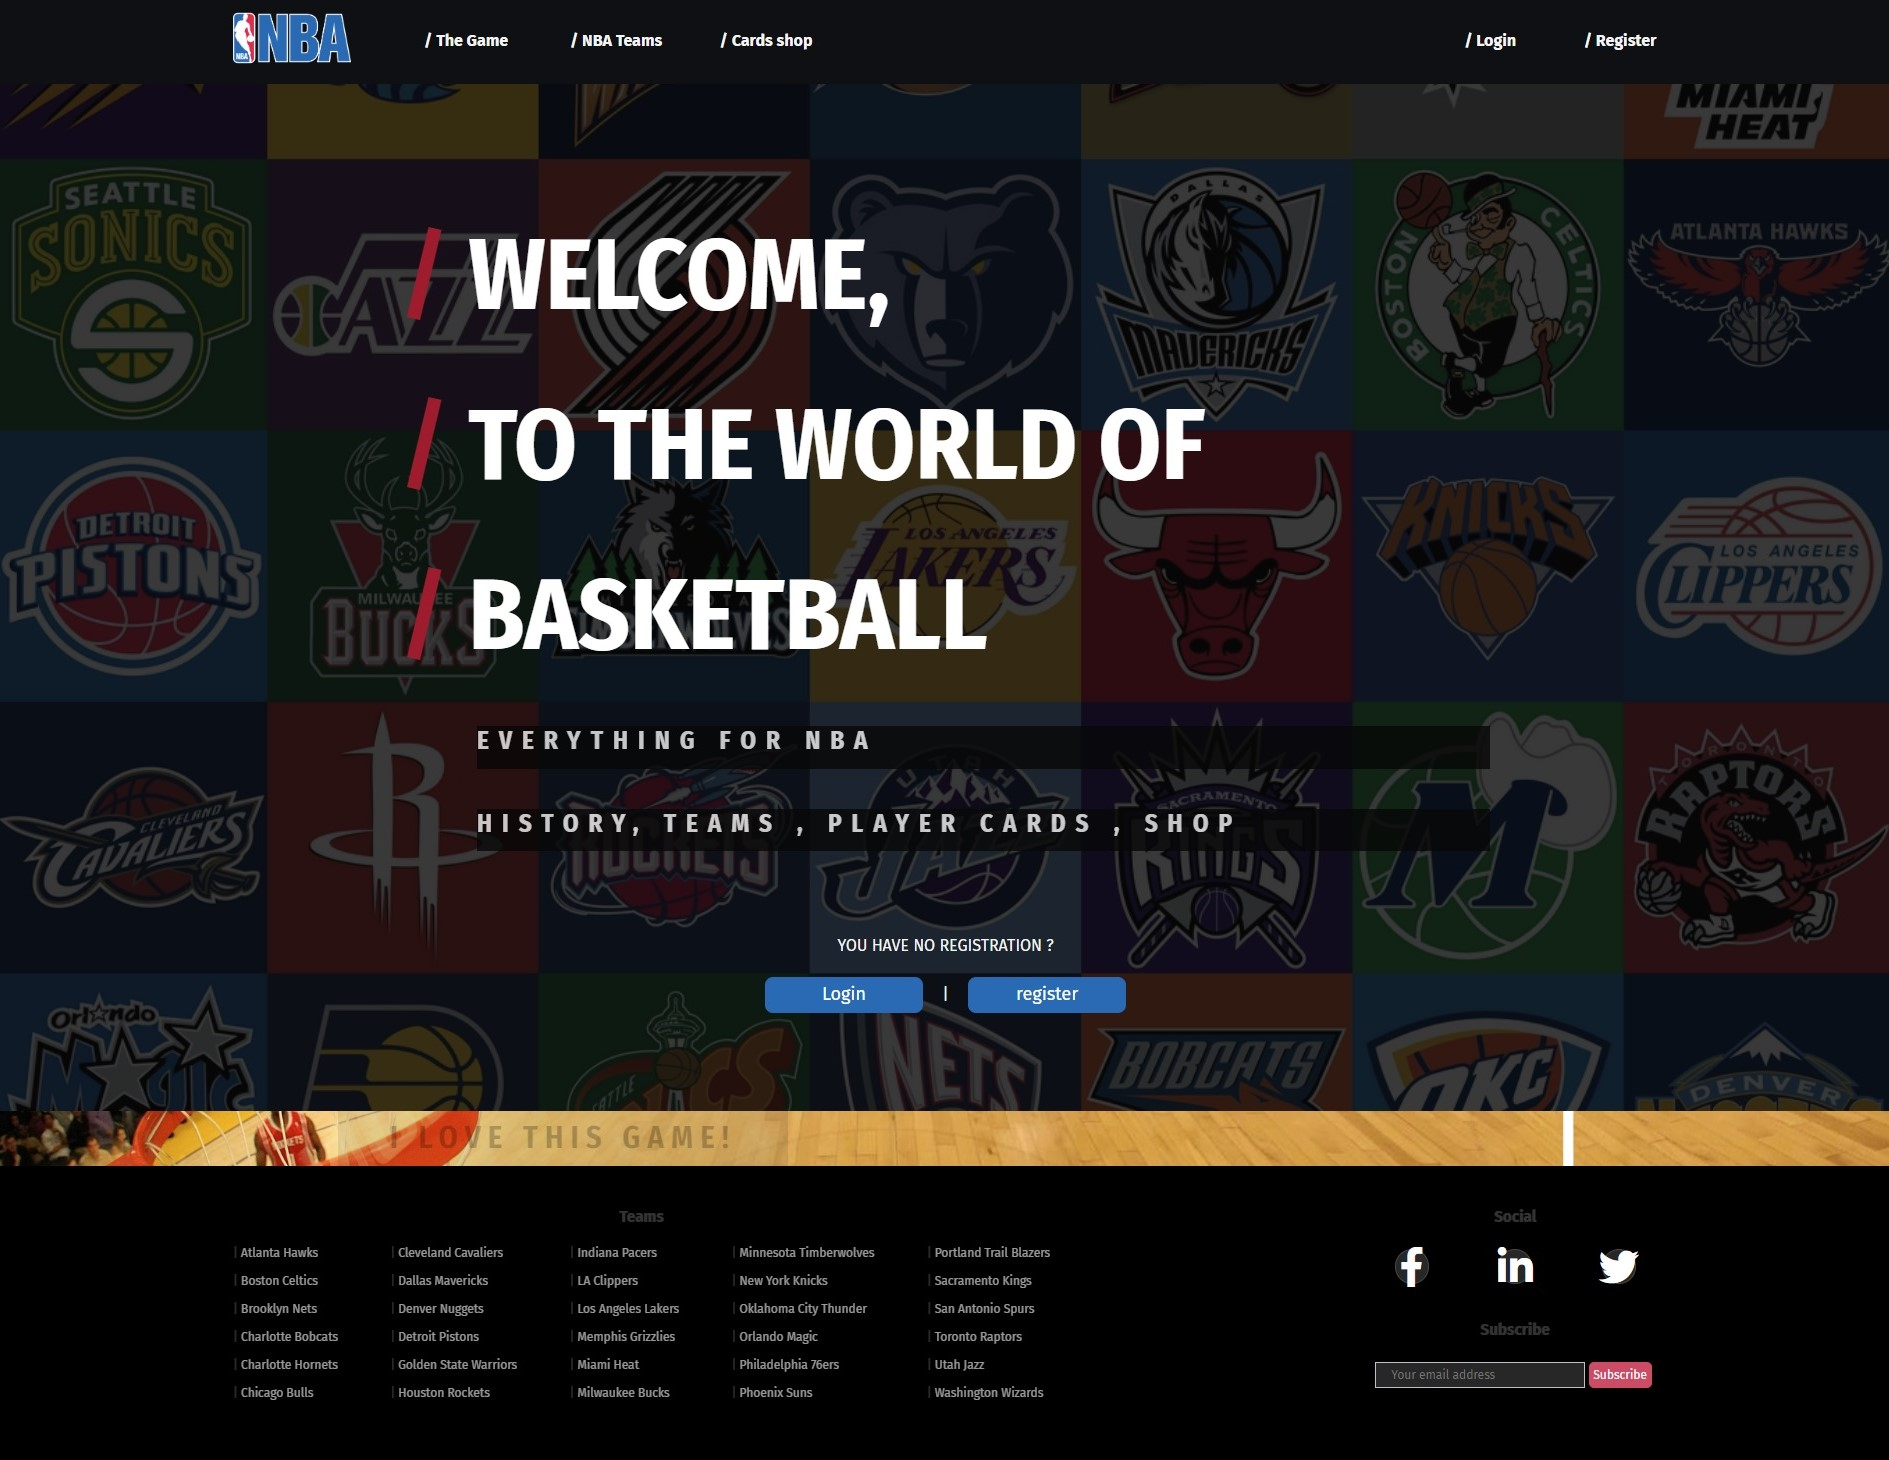
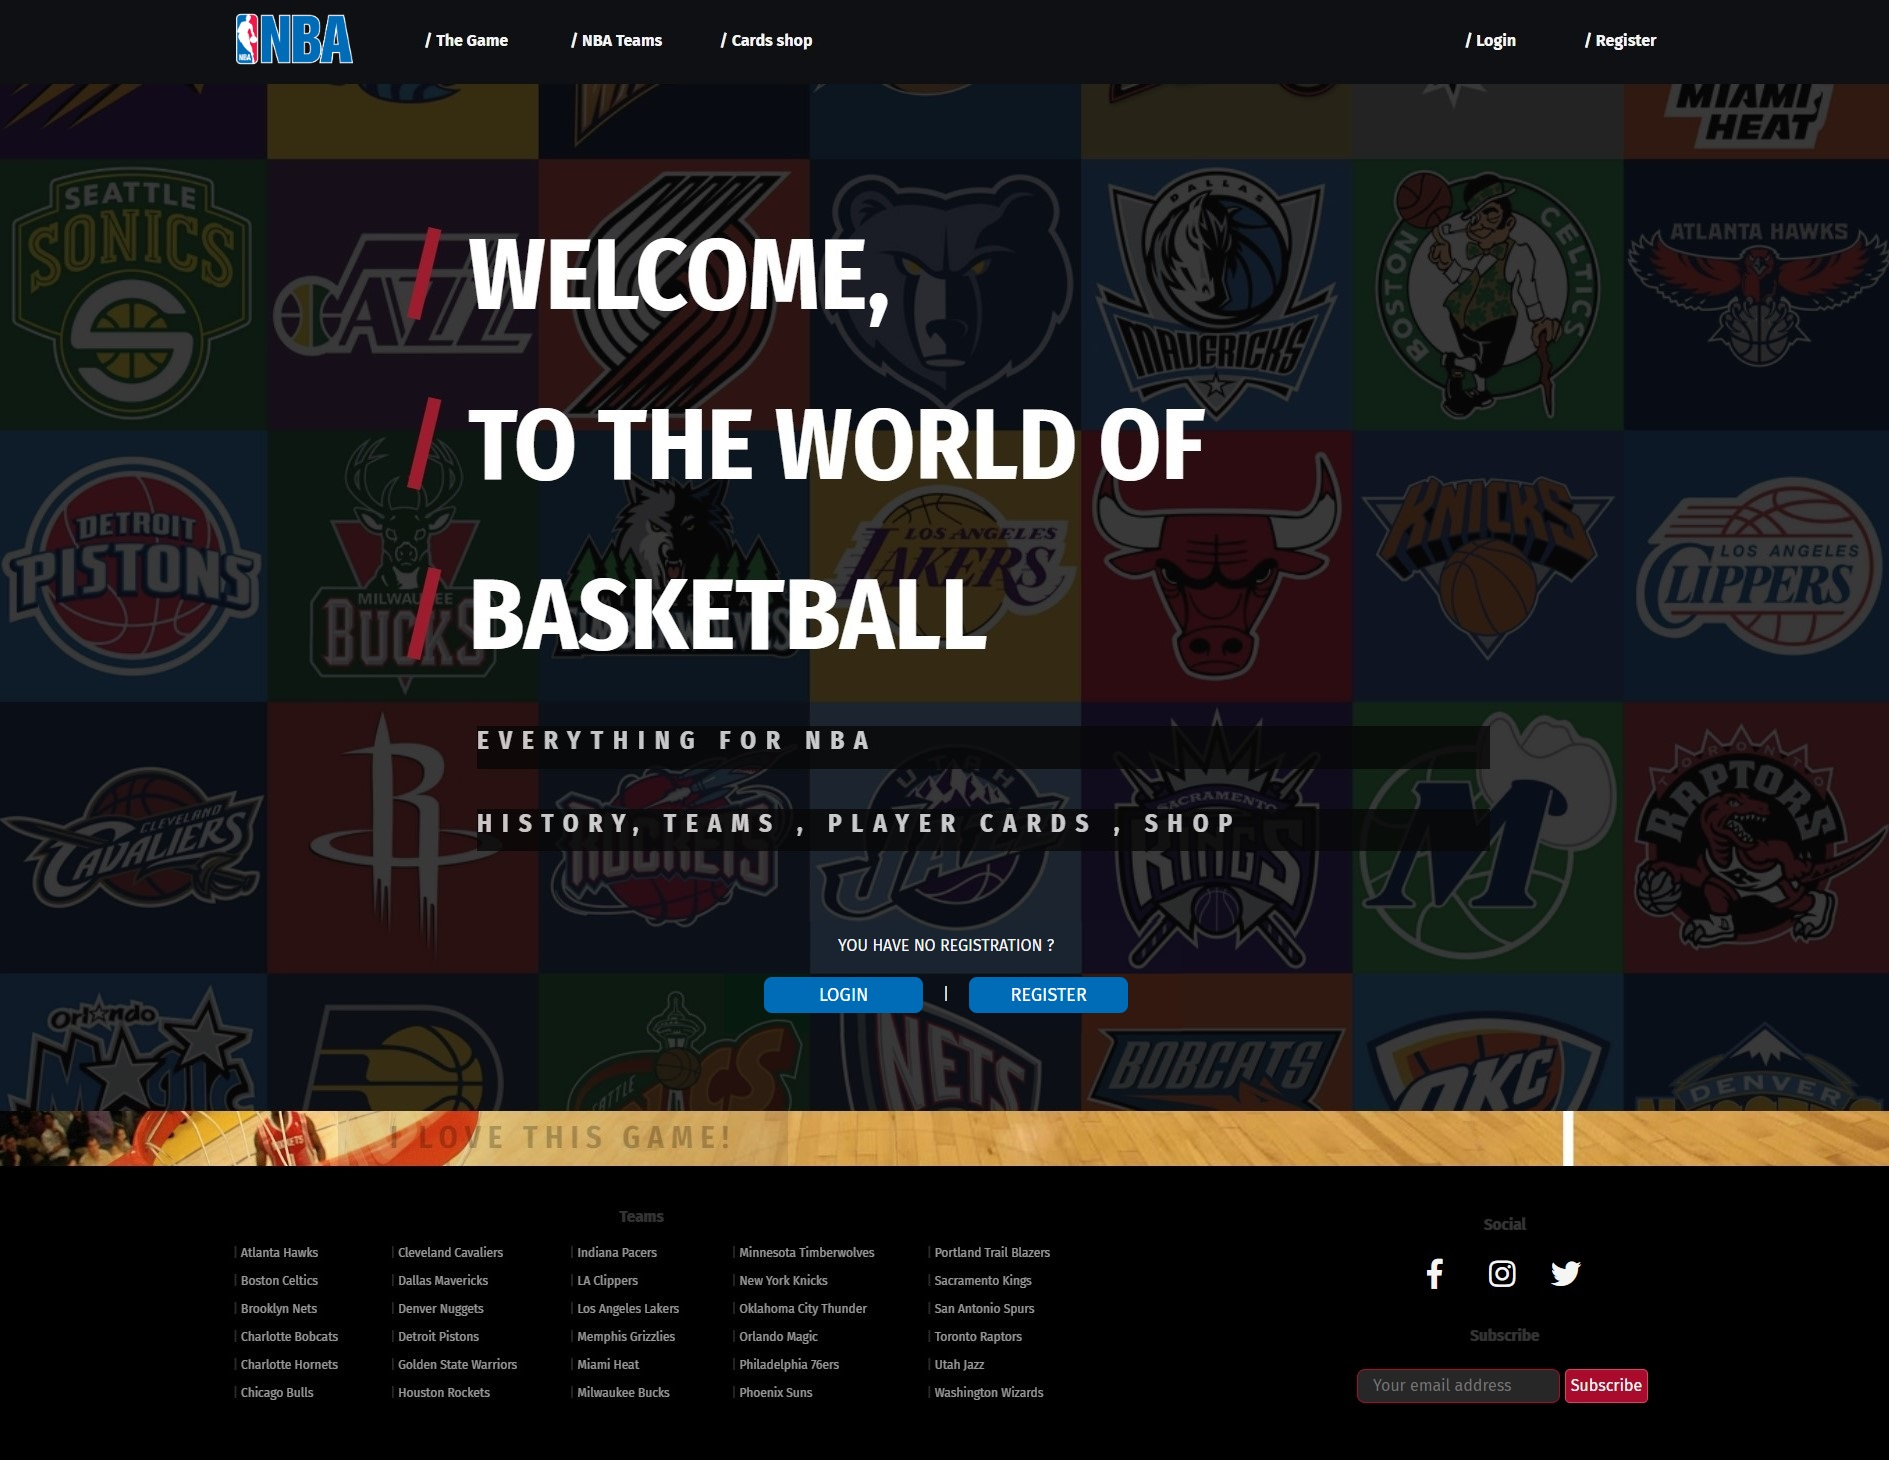
update subscribe

Changed region(s): [[0.7184, 0.8322, 0.8745, 0.9863], [0.406, 0.6473, 0.5934, 0.7089], [0.1249, 0.0, 0.1874, 0.0616]]

diff --git a/public/assets/scss/modules/_Footer.module.scss b/public/assets/scss/modules/_Footer.module.scss
@@ -122,11 +122,12 @@
       height: 2em;
       width: 100%;
       margin-top: 15px;
-      border: 1px solid #bec1c5;
-      transition: all 0.4s;
+      border: 1px solid getColor(nba-s);
+      transition: all 0.3s;
       background-color: rgb(39, 39, 39);
       color: getColor(text-p);
       padding-left: 15px;
+      border-radius: 8px;
 
       &:focus {
         border-color: getColor(nba-p);
